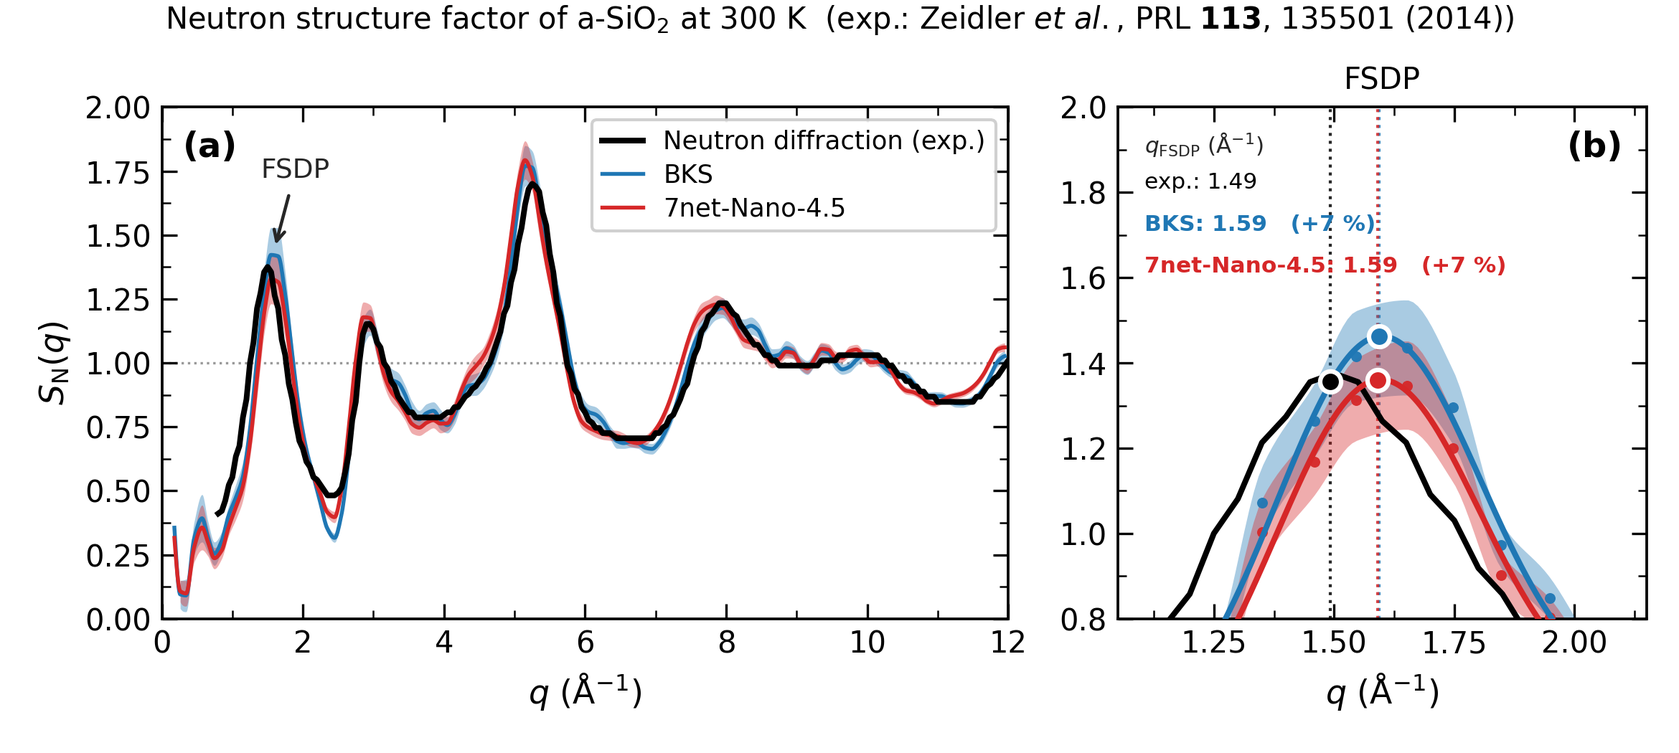
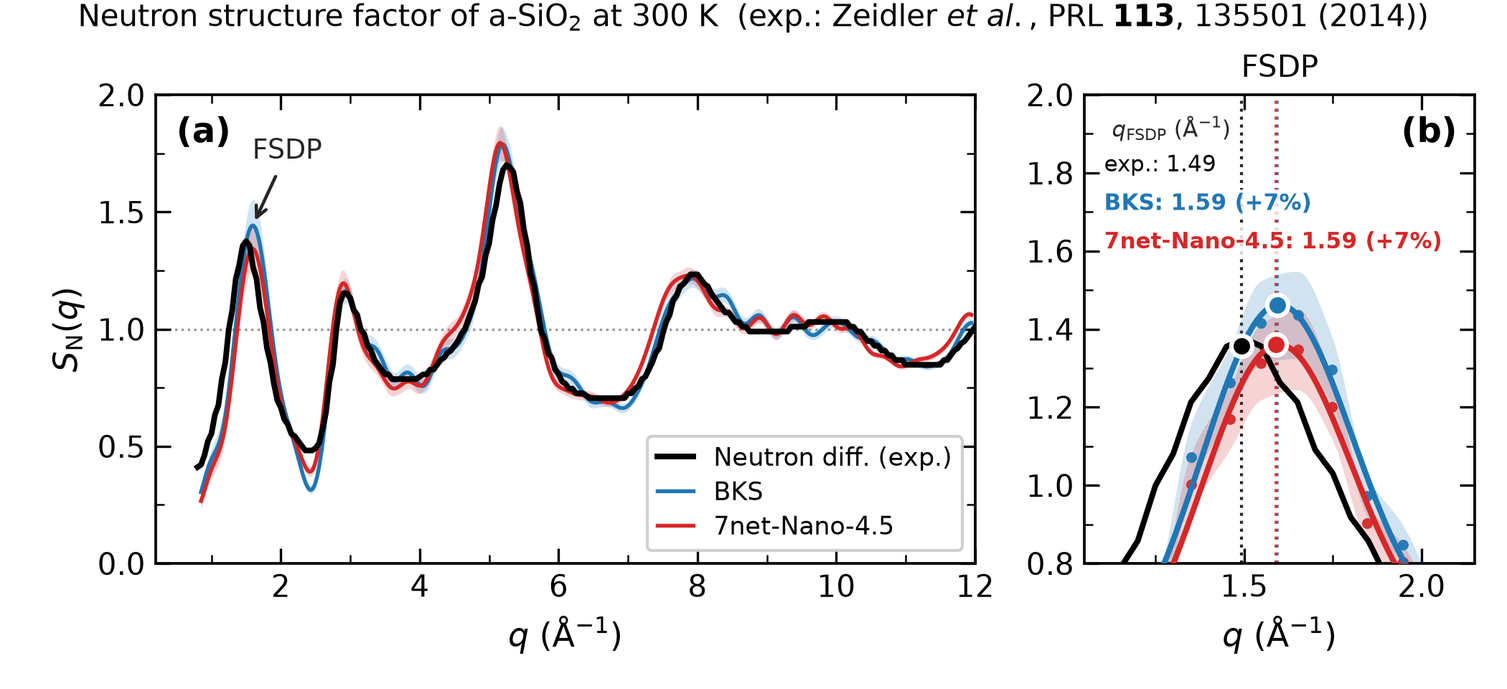
Consistency audit after the tail-on switch: found a v1 leak into RESULTS
Swept the repo for anything left stale by the tail-off -> tail-on change and by
the earlier rho=2.607 -> 2.20 restart. Five real problems.

1. fig_density.py's docstring still said "reported values are tail OFF" while
   the code reads ev_bks_scan_tail.txt. The file contradicted itself. Rewrote
   the docstring to state the tail-on grounds and to record that the original
   tail-off justification was circular.

2. RESULTS.md "lessons" section still claimed BKS is 5x more accurate on K0.
   With the tail on it is 2.7x. Fixed.

3. THE REAL FIND: RESULTS.md section 3(b) -- "the density drop is entirely
   explained by bond length, predicted -4.28 % vs measured -4.31 %, agreeing to
   0.03 %p" -- was carrying numbers from the DISCARDED rho=2.607 work
   (s2_relax/NOTE.md S2-3). There the comparison was Si-O 1.6123 -> 1.6360 with
   density 2.6071 -> 2.4948, i.e. the same structure relaxed by 7net at two
   volumes at 0 K. That is a clean apples-to-apples test and the claim was
   sound in its own context.

   The current section 3(b) is a completely different comparison: 300 K MD g(r)
   peak positions against 0 K equilibrium densities of two different potentials.
   The v1 numbers do not transfer. Recomputed honestly:

       prediction from mean Si-O (1.6147 -> 1.6369)   -4.01 %
       prediction from peak Si-O (1.605  -> 1.635 )   -5.40 %
       measured (2.3442 -> 2.2185)                    -5.36 %

   So the prediction swings 1.4 %p depending on which equally arbitrary
[…]

Changed region(s): [[0.031, 0.0, 0.9905, 0.9375], [0.7738, 0.9062, 0.8976, 0.9375]]

diff --git a/04_analysis/src/fig_sq.py b/04_analysis/src/fig_sq.py
@@ -95,7 +95,7 @@ def peak(q, s, lo=FIT_LO, hi=FIT_HI):
     return p[1], float(np.sqrt(np.diag(cov))[1]), float(gmodel(p[1], *p)), p, res
 
 
-def bandlimit(q, s, rmax=15.2, rlim=60.0, nr=6000):
+def bandlimit(q, s, qout=None, rmax=15.2, rlim=60.0, nr=6000):
     """S(q) 잡음 제거 — **박스 크기가 정하는 물리적 대역 제한**. 조정 파라미터가 없다.
 
     원리
@@ -126,23 +126,38 @@ def bandlimit(q, s, rmax=15.2, rlim=60.0, nr=6000):
         다만 매듭 30 개(간격 0.41 = 하필 박스가 정하는 한계값)면 S=1.25 로 14 % 뭉개지는데
         **방법 안에 그게 틀렸다는 신호가 없다.** 답을 이미 알아야 매듭을 고를 수 있다.
         rmax 는 박스가 정해주므로 이쪽을 쓴다.
+
+    ★ qout 을 주면 **임의의 촘촘한 격자에서 평가**한다. 이게 중요하다 —
+      대역제한 결과는 이산점이 아니라 **연속함수**다. 그래서 그림을 그릴 때 보간이
+      아예 필요 없다. PCHIP 로 이으면 단조성 보존 때문에 데이터 점을 못 넘어서
+      0.1 격자 사이에 떨어진 피크 꼭짓점이 눌린다 (7net 진폭 1.36 → 1.33).
+      그래서 (a) 와 (b) 의 피크 높이가 어긋나 보였다. 직접 평가하면 그 문제가 없다.
     """
     r = np.linspace(1e-6, rlim, nr)
     dr = r[1] - r[0]
     h = (np.sin(np.outer(r, q)) @ (q * (s - 1.0) * np.gradient(q))) / r
     h[r > rmax] = 0.0
-    return 1.0 + 2.0 / np.pi / q * (np.sin(np.outer(q, r)) @ (r * h * dr))
+    qo = q if qout is None else qout
+    return 1.0 + 2.0 / np.pi / qo * (np.sin(np.outer(qo, r)) @ (r * h * dr))
 
 
-SET = [("Neutron diffraction (exp.)", "k", exp[:, 0], exp[:, 1], None, 1.9),
-       ("BKS", "tab:blue", bks[:, 0], bks[:, 1], bks[:, 2], 1.3),
-       ("7net-Nano-4.5", "tab:red", net[:, 0], net[:, 1], net[:, 2], 1.3)]
-pk = {lab: peak(q, s) for lab, _, q, s, _, _ in SET}
-qe = pk["Neutron diffraction (exp.)"][0]
+# 저q 표시 하한 = **실험 데이터가 시작하는 q** (0.8 Å⁻¹). 비교 대상이 없는 구간은 안 그린다.
+#   마침 우리 쪽 통계 한계와도 맞는다. 박스가 30.4 Å 이라 최소 q = 2π/L = 0.207 인데
+#   q<0.5 껍질에는 q벡터가 1·8·5·26·19 개뿐이다 (q=0.8 에서 59 개, FSDP 구간은 175~393 개).
+#   그 구간의 널뛰기는 물리가 아니라 **표본 부족**이다. S(q→0) = ρk_BT·κ_T ≈ 0.09 로
+#   수렴하는 모습을 보려면 박스를 훨씬 키워야 한다.
+QMIN_PLOT = float(exp[:, 0].min())
+
+
+SET = [("Neutron diff. (exp.)", "k", exp[:, 0], exp[:, 1], None, 1.9, None),
+       ("BKS", "tab:blue", bks[:, 0], bks[:, 1], bks[:, 2], 1.3, bks[:, 3]),
+       ("7net-Nano-4.5", "tab:red", net[:, 0], net[:, 1], net[:, 2], 1.3, net[:, 3])]
+pk = {lab: peak(q, s) for lab, _, q, s, *_ in SET}
+qe = pk[SET[0][0]][0]
 QFIT = np.linspace(FIT_LO, FIT_HI, 400)
 
-fig, ax = plt.subplots(1, 2, figsize=(7.8, 3.5),
-                       gridspec_kw={"width_ratios": [1.6, 1]})
+fig, ax = plt.subplots(1, 2, figsize=(7.0, 3.2),
+                       gridspec_kw={"width_ratios": [2.1, 1]})
 a, b = ax
 
 
@@ -161,28 +176,30 @@ def draw(axis, mode="raw"):
       면역이므로, 날 데이터 점을 그대로 보여주는 편이 정직하다.
       (필터를 걸어도 q 1.593→1.590, S 1.462→1.457 로 인용 불확도 안에서 안 움직인다.)
     """
-    for lab, c, q, s, e, lw in SET:
+    for lab, c, q, s, e, lw, nq in SET:
         z = 4 if c == "k" else 3
-        sd = bandlimit(q, s) if (e is not None and mode == "raw") else s
+        if mode == "raw" and e is not None:
+            # ★ 대역제한 필터를 **촘촘한 격자에서 직접 평가**한다 — 보간이 아예 없다.
+            #   PCHIP 는 단조성 보존이라 데이터 점을 못 넘어서, 꼭짓점이 0.1 격자 사이에
+            #   떨어지면 봉우리를 누른다 (7net 1.36 → 1.33). (a)·(b) 높이가 어긋난 원인이었다.
+            #   실험이 없는 저q 는 **표시만** 자른다. 변환 입력에선 빼지 않는다 —
+            #   푸리에 변환은 전 q 정보를 쓰기 때문이다.
+            m = q >= QMIN_PLOT
+            qf = np.linspace(q[m][0], q[m][-1], 1500)
+            sf = bandlimit(q, s, qf)
+            se = PchipInterpolator(q[m], e[m])(qf)   # 밴드 폭은 그대로 — 불확도는 안 줄인다
+            axis.fill_between(qf, sf - se, sf + se, color=c, alpha=0.2, lw=0, zorder=z - 1)
+            axis.plot(qf, sf, "-", c=c, lw=lw, label=lab, zorder=z)
+            continue
         if e is not None:
-            # 밴드 = 대역제한 곡선 ± SEM. 불확도는 줄이지 않는다 — 표시만 매끄럽게 한다.
-            #   껍질 간격이 0.1 이라 직선으로 이으면 모서리가 보인다. 이건 통계 문제가
-            #   아니라 렌더링 문제이고, 데이터 점을 정확히 지나는 **보간**으로 해결된다.
-            #   PCHIP 를 쓰는 이유: 일반 3차 스플라인은 잡음 있는 점 사이에서 overshoot 이
-            #   나서 없는 봉우리를 만든다. PCHIP 는 단조성을 보존해 그 일이 없다.
             ok = np.isfinite(e) & np.isfinite(s)
             qf = np.linspace(q[ok][0], q[ok][-1], 1200)
-            lo = PchipInterpolator(q[ok], (sd - e)[ok])(qf)
-            hi = PchipInterpolator(q[ok], (sd + e)[ok])(qf)
-            axis.fill_between(qf, lo, hi, color=c, alpha=0.38, lw=0, zorder=z - 1)
+            lo = PchipInterpolator(q[ok], (s - e)[ok])(qf)
+            hi = PchipInterpolator(q[ok], (s + e)[ok])(qf)
+            axis.fill_between(qf, lo, hi, color=c, alpha=0.2, lw=0, zorder=z - 1)
         if mode == "raw" or c == "k":
-            if e is None:
-                axis.plot(q, s, "-", c=c, lw=lw, label=lab, zorder=z)
-            else:
-                ok = np.isfinite(sd)
-                qf = np.linspace(q[ok][0], q[ok][-1], 1200)
-                axis.plot(qf, PchipInterpolator(q[ok], sd[ok])(qf), "-",
-                          c=c, lw=lw, label=lab, zorder=z)
+            # 여기 오는 건 실험 곡선뿐 (이미 매끈하고 SEM 이 없다)
+            axis.plot(q, s, "-", c=c, lw=lw, label=lab, zorder=z)
         else:
             m = (q > FIT_LO - 0.15) & (q < FIT_HI + 0.15)
             # 데이터 점: 테두리 없이 면색만 (곡선과 같은 색) — 피팅 곡선을 덜 가린다
@@ -194,13 +211,13 @@ def draw(axis, mode="raw"):
 # ---------- (a) 전 구간 ----------
 draw(a, "raw")
 a.axhline(1, ls=":", lw=0.8, c="0.6", zorder=1)
-a.set_xlim(0, QMAX_PLOT); a.set_ylim(0.0, 2)
+a.set_xlim(QMIN_PLOT - 0.6, QMAX_PLOT); a.set_ylim(0.0, 2)
 a.set_xlabel(r"$q$ ($\rm\AA^{-1}$)"); a.set_ylabel(r"$S_{\rm N}(q)$")
-a.legend(loc="upper right", framealpha=0.92, fontsize=8.5,
-         handlelength=1.6, borderpad=0.4, labelspacing=0.35)
+a.legend(loc="lower right", framealpha=0.92, fontsize=8.5,
+         handlelength=1.4, borderpad=0.4, labelspacing=0.35)
 a.text(0.025, 0.955, "(a)", transform=a.transAxes, fontsize=11.5, fontweight="bold", ha='left', va='top')
 # FSDP 를 화살표로 지시
-a.annotate("FSDP", xy=(qe+0.1, 1.44), xytext=(qe+0.4, 1.7),
+a.annotate("FSDP", xy=(qe+0.1, 1.44), xytext=(qe+0.6, 1.7),
            fontsize=9, ha="center", va="bottom", color="0.15",
            arrowprops=dict(arrowstyle="->", lw=1.1, color="0.15"))
 
@@ -216,16 +233,19 @@ b.set_title("FSDP", fontsize=10)
 b.text(0.955, 0.955, "(b)", transform=b.transAxes, fontsize=11.5,
        fontweight="bold", ha="right", va="top")
 
-b.text(0.05, 0.955, r"$q_{\rm FSDP}$ ($\rm\AA^{-1}$)", transform=b.transAxes,
+b.text(0.07, 0.955, r"$q_{\rm FSDP}$ ($\rm\AA^{-1}$)", transform=b.transAxes,
        fontsize=7.5, ha="left", va="top", color="0.15")
 for j, (nm, c, lab) in enumerate([("exp.", "k", SET[0][0]),
                                   ("BKS", "tab:blue", "BKS"),
                                   ("7net-Nano-4.5", "tab:red", "7net-Nano-4.5")]):
     qp = pk[lab][0]
-    txt = f"{nm}: {qp:.2f}" + ("" if j == 0 else f"   ({100*(qp/qe-1):+.0f} %)")
+    # % 는 붙여 쓴다. SI/ISO 31-0 은 띄우라고 하지만 PRL·PRB 등 대부분의 저널 관행은 붙임.
+    txt = f"{nm}: {qp:.2f}" + ("" if j == 0 else f" ({100*(qp/qe-1):+.0f}%)")
     b.text(0.05, 0.955 - 0.082 * (j + 1), txt, transform=b.transAxes,
            fontsize=7.5, ha="left", va="top", color=c,
-           fontweight="bold" if j else "normal")
+           fontweight="bold" if j else "normal", zorder=8,
+           # 세로 점선이 글자를 가로질러 읽기 나쁘다 → 흰 배경을 깔되 테두리는 없앤다
+           bbox=dict(fc="w", ec="none", alpha=0.8, pad=1.2))
 
 for a_ in ax:
     a_.xaxis.set_minor_locator(AutoMinorLocator(2))
@@ -234,13 +254,13 @@ for a_ in ax:
 fig.suptitle("Neutron structure factor of a-SiO$_2$ at 300 K  "
              "(exp.: Zeidler $et\\ al.$, PRL $\\bf 113$, 135501 (2014))",
              fontsize=10, y=0.995)
-fig.tight_layout(rect=[0, 0, 1, 1.05])
+fig.tight_layout(rect=[0, 0, 1, 1.06])
 fig.savefig(FIG / "fig_sq.png", dpi=300)
 print(f"-> {FIG}/fig_sq.png\n")
 
 print(f"{'':28s}{'q_FSDP':>9s}{'±':>7s}{'vs exp':>9s}{'S_peak':>9s}{'vs exp':>9s}")
 se = pk[SET[0][0]][2]
-for lab, _, q, s, e, _ in SET:
+for lab, _, q, s, e, *_ in SET:
     q0, e0, s0, _, res = pk[lab]
     sem = np.nanmedian(e) if e is not None else np.nan
     extra = f"   잔차 {res:.4f} vs SEM {sem:.4f}" if e is not None else f"   잔차 {res:.4f}"

diff --git a/05_doc/PPT_BRIEF.md b/05_doc/PPT_BRIEF.md
@@ -1,0 +1,185 @@
+# PPT 제작 인수인계 — 새 세션은 이 문서부터 읽을 것
+
+작성 2026-08-14. 계산·분석·그림은 전부 끝났고 **남은 건 PPT 제작뿐**이다.
+
+## 새 세션 시작 절차
+
+1. 이 문서를 끝까지 읽는다.
+2. **`05_doc/RESULTS.md`를 읽는다.** 모든 수치의 유일한 출처다.
+3. `05_doc/STATUS.md`의 "반드시 지켜야 할 실행 규칙" 훑기 (추가 계산을 할 경우만 필요).
+4. `/korean-ppt-standards` 스킬 + `pptx` 스킬을 함께 쓴다.
+
+> ⚠ **수치를 이 문서나 기억에서 가져오지 말 것. 반드시 `RESULTS.md`에서 읽을 것.**
+> 이 프로젝트에서 실제로 폐기된 v1 계산(ρ=2.607)의 숫자가 문서에 새어 들어간 적이 있다.
+> 아래 표는 "무슨 얘기를 하는 슬라이드인가"를 잡기 위한 것이지 인용용이 아니다.
+
+---
+
+## 1. 왜 만드나 (맥락)
+
+- 2026-08-03 **코닝 전화 인터뷰**. 분자모델링 파트 리더가 **MLIP가 현재 최대 관심사**이고
+  **유리 특화 MLIP 개발을 검토 중**이라고 말했다.
+- 통화에서 사용자가 "SevenNet-Nano 테스트 프로젝트를 해볼 계획"이라고 언급했고,
+  실제로 **4일(8/10~8/13, git 기록 기준)** 만에 수행했다.
+- 이 PPT는 **그 약속을 닫는 후속 송부물**이다. 과제 제출물이 아니라 "말한 걸 했습니다"에 가깝다.
+
+**수신**: 분자모델링 파트 리더에게 **직접 송부. 윤홍 그룹장 cc 하지 않음** (사용자 결정).
+
+**톤**: 자랑이 아니라 **실무자가 실무자에게 보내는 짧은 기술 메모**. 실패와 한계를 숨기지 않는 게
+이 자료의 강점이다 (아래 §4 참고).
+
+---
+
+## 2. 합의된 구성
+
+| # | 슬라이드 | 핵심 메시지 |
+|---|---|---|
+| — | **표지** | SevenNet 로고 포함. **제목에 소요 기간을 쓰지 않는다** (사용자 지시) |
+| 1 | **구조** — g(r) · BAD · S(q) | 제일 쉬운 얘기부터. 국소 구조는 MLIP가 개선 |
+| 2 | **MLIP의 정확도 상한 = PBE** | MLIP는 학습한 DFT를 넘지 못한다 |
+| 3 | **밀도 · 탄성률** | K₀ 함정 (아래 §4-1). 복잡한 얘기는 여기서 |
+| 4 | **비용** | MLIP는 classical MD보다 **훨씬 느리다**는 걸 분명히 |
+| 5 | **파일럿의 한계 · next step** | 어닐링 미수행, 셀 크기, 실험 대비 남은 갭 |
+| 부록 | **Computational details** | 조건표 |
+
+**"실패 진단" 별도 슬라이드는 넣지 않는다** — 사용자가 사족이라고 판단. 다만 melt-quench
+실패 경험은 §5나 부록에 한 줄로 녹일 수 있다.
+
+**서술 스타일**: 한국어 **개조식**, 기술 용어는 **영어 그대로**(MLIP, FSDP, bulk modulus,
+melt-quench, ring statistics 등 억지 번역 금지).
+
+---
+
+## 3. 표기 규칙 (이미 그림에 적용돼 있음 — 슬라이드도 맞출 것)
+
+- 모델명은 **`7net-Nano-4.5`** (논문 표기). 소문자 `7net-nano-4.5`는 checkpoint 리터럴이라
+  코드/명령어 안에서만 쓴다.
+- **`%`는 붙여 쓴다** (`+7%`). SI는 띄우라고 하지만 저널 관행을 따랐고 그림도 그렇게 돼 있다.
+- 실험 물성 라벨은 **`Fused silica: ~~`** 형식으로 통일돼 있다. 사용자가 직접 맞춰놓은 것이니
+  **임의로 바꾸지 말 것** (과거에 `a-SiO₂`로 바꿨다가 지적받았다).
+- 그림은 **PNG만** 사용 (벡터 PDF는 폐기하기로 결정).
+- 로고: `SevenNet_logo.png` (repo 루트에 있음. `.webp`도 있지만 PNG를 쓸 것).
+
+---
+
+## 4. 반드시 조심할 함정 (전부 실제로 한 번씩 틀렸던 것들)
+
+### 4-1. K₀ 비교 — "BKS가 더 정확하다"고 쓰면 틀린다
+
+BKS 34.3 vs 7net 43.2 GPa는 **각자의 평형 밀도에서 읽은 값**이라 비교가 성립하지 않는다.
+실리카는 K₀′ < 0(**anomalous compression**: 조밀할수록 물러짐)이라 BKS가 6.6 % 더 조밀한
+것만으로 K₀가 실험 쪽으로 끌려 내려온다. **같은 밀도에서 보면 두 포텐셜이 3 % 이내로 겹친다.**
+그리고 실험 밀도에서는 **둘 다 +20 % 과대**다.
+
+→ 슬라이드 구성: **처음엔 MLIP가 더 틀린 것처럼 보이는 결과를 보여주고, 그 다음 함정을
+푸는 순서**로 간다 (사용자 지시). 결론은 "포텐셜 문제가 아니라 **구조 생성 프로토콜** 문제이고,
+MLIP로 바꿔도 안 고쳐진다" — 실무자에게 이게 더 쓸모 있는 메시지다.
+
+### 4-2. 속도 비교 — 표현에 주의
+
+- **MLIP가 classical MD보다 10²~10³배 느리다**는 얘기를 반드시 할 것. 유리하게만 쓰지 말 것.
+- **"문헌 통상 10²~10³배" 같은 근거 없는 문장을 쓰지 말 것.** 과거에 지어냈다가 걸렸다.
+  인용은 SevenNet 논문의 실제 teacher 대비 속도 향상값 + 우리 자체 측정만 쓴다.
+- 배수는 조건 의존이 심하다: 같은 두 포텐셜인데 **2,462배**(cutoff 5.5, ρ=2.607)와
+  **1,244배**(cutoff 4.5, ρ=2.20)가 둘 다 사실이다. **조건을 반드시 함께 적을 것.**
+- `fig_speed.png` (b)의 x축 라벨은 `number of threads / processes`.
+
+### 4-3. 밀도 숫자 혼선
+
+**ρ = 2.20 계열(현행)만 쓴다.** BKS 2.3442 / 7net 2.2185.
+**ρ = 2.607은 폐기된 v1**이다. 속도 비교 데이터 일부가 v1 조건에서 나왔으므로,
+그 수치를 쓸 때는 조건을 명시하거나 현행 값으로 통일할 것.
+
+### 4-4. melt-quench 실패의 정확한 서술
+
+**"녹지 않았다"가 아니다.** 늦게 녹았고, **녹는 순간 NPT 때문에 부피가 붕괴**(2.26 → 2.62)한 것이다.
+정확히는 "용융 중 NPT 사용"이 원인이다.
+
+### 4-5. AIMD 참조값
+
+Dechant et al., JPCC 2026 (published, PBE). **셀이 120원자 · L = 12.2 Å**로 작고
+quench가 5 ps(≈4×10¹⁴ K/s)로 우리보다 100배 빠르다.
+→ **"7net이 DFT보다 정확하다"고 쓰지 말 것.** 방어 가능한 문장은
+*"이 조건의 AIMD 참조값보다 실험에 가까웠고, 그 차이는 참조 계산의 유한크기·급냉으로 설명 가능"*.
+유한크기 한계를 슬라이드에 담을지는 사용자에게 확인할 것 (이전에 물었으나 미결).
+
+### 4-6. PBE underbinding과 어긋나 보이는 결과
+
+Si–O 결합이 늘어나는 건 PBE underbinding으로 설명되지만 K₀는 반대 방향으로 보인다 —
+이건 4-1의 밀도 혼동 때문이다. **"counter-intuitive하다!"를 전면에 내세우지 말 것.**
+비정질 망 구조를 모르는 사람처럼 보일 수 있다는 사용자 우려가 있었다.
+
+---
+
+## 5. PPT 작업 **전에** 끝내야 할 것 — 출처 조사
+
+사용자가 "PPT 구상이 끝난 후 진행"으로 미뤄둔 항목이다. **슬라이드에 실험값을 적는 이상
+출처 없이 쓸 수 없다.** 구성 확정 직후, 슬라이드 채우기 전에 처리할 것.
+
+| 값 | 현재 상태 |
+|---|---|
+| ρ_exp = 2.20 g/cm³ | 출처 미확인 |
+| K_exp = 36.7 GPa | 출처 미확인 |
+| Si–O 1.610 Å, O–O 2.630 Å, Si–Si 3.080 Å | 출처 미확인 |
+| Si–O–Si 140~150° | 출처 미확인 |
+| FSDP (위치·높이) | Zeidler PRL **113**, 135501 (2014) — **확보됨** |
+| a-SiO₂의 문헌 DFT/AIMD K₀ (최근 10년 내) | 미조사 |
+| GGA의 탄성계수 경향 (과소/과대) 검증 | 미조사 |
+
+**arXiv 전용·피인용 적은 논문은 신뢰하지 말 것.** 출판·피인용 있는 문헌을 우선한다.
+
+---
+
+## 6. 계산·분석 쪽 남은 일 (PPT와 무관, 선택)
+
+전부 **하지 않아도 PPT는 완성된다.**
+
+1. `./cleanup.sh --yes` 실행 + `./sync.sh` — **사용자가 직접** (샌드박스는 파일 삭제 불가).
+2. RESULTS §3(b) 밀도–결합길이 논증 재검토 — ρ ∝ d⁻³ 휴리스틱이 입력에 따라 −4.0~−5.4 %를
+   오간다. 추가 MD 없이 E–V 스캔 구조에서 결합길이·각도를 직접 재면 됨.
+3. (선택) excess energy — α-quartz 단일점 하나, 7net으로 1분.
+4. (선택) 7net 어닐링 — 중거리 구조를 마저 고치려면 필요. 20 ps에 11시간.
+5. **별건 플래그**: Cu 증착 프로젝트의 `CLAUDE.md` §1.2가 ρ=2.607을 10 Å cutoff 탓으로
+   잘못 진단하고 그 비물리적 구조를 기판으로 쓰고 있다. 그 프로젝트 재개 전에 수정 필요.
+
+---
+
+## 7. 사용자 작업 규칙 (계속 적용)
+
+- **계산량 큰 작업은 착수 전 예상 소요시간을 알리고 확인받을 것.**
+- **에이전트를 많이 쓰는 작업은 사전 확인.** 사용자가 직접 한두 번 클릭으로 되는 일에
+  토큰·시간을 쓰지 말 것.
+- **검증 안 된 수치를 지어내지 말 것.** 문헌값은 출처와 함께, 불확실하면 불확실하다고 명시.
+- **사용자의 가설도 데이터로 반증되면 그대로 말할 것.** 좋은 결과가 나오도록 유도하지 말 것.
+- 각 실행마다 `02_run/*/NOTE.md`에 조건·이유·결과를 한 줄씩 기록.
+- DFT/물리 개념 설명은 생략 가능. **MLIP 툴체인 쪽은 짚어줄 것.**
+- 원격 실행 명령은 **복붙 가능한 형태**로 줄 것 (사용자가 결과를 붙여넣는다).
+- 답변은 간결하게.
+- **파일 관리**: 샌드박스는 파일 삭제 불가, git 직접 실행 시 `.git/*.lock`이 남는다.
+  → **Claude는 파일을 쓰기만 하고, `./sync.sh`와 `./cleanup.sh`는 사용자가 실행한다.**
+
+---
+
+## 8. 그림 (전부 `04_analysis/fig/`, PNG 300 dpi, 재생성 가능)
+
+| 파일 | 내용 | 슬라이드 |
+|---|---|---|
+| `fig_pdf.png` | g(r) 부분 동경분포 | 1 |
+| `fig_bad.png` | 결합각 분포 | 1 |
+| `fig_sq.png` | 중성자 S(q) + FSDP 확대 | 1 |
+| `fig_density.png` | E–V / P–V, 평형 밀도 | 3 |
+| `fig_bulkmod.png` | K(ρ) — **K₀ 함정의 핵심 그림** | 3 |
+| `fig_rings.png` | ring 통계 | 5 |
+| `fig_speed.png` | 속도 · 병렬 확장성 | 4 |
+
+**사용자가 `fig_density.png`, `fig_bulkmod.png`, `fig_sq.py`의 범위·라벨 위치를 직접
+손으로 다듬어 놓았다. 요청 없이 재생성하거나 스타일을 바꾸지 말 것.**
+
+---
+
+## 9. 최근 세션(8/14)에서 한 일 — 참고
+
+`fig_sq.png` 마무리. S(q) 곡선의 잡음 제거 방법을 **박스 크기가 정하는 푸리에 대역 제한**으로
+확정했다 (평활 스플라인·SG·RCS는 전부 기각, 근거는 `fig_sq.py`의 `bandlimit()` docstring과
+RESULTS §4). **보고 수치는 바뀌지 않았다** — FSDP는 날 데이터 가우시안 피팅에서 나오고
+필터는 그리기용이다.

diff --git a/05_doc/RESULTS.md b/05_doc/RESULTS.md
@@ -342,6 +342,41 @@ Fig. 1(a) ambient 곡선을 digitize.
 가우시안과 수렴한다 → 서로 독립인 두 방법이 만나므로 가우시안 결과를 믿을 근거가 된다.
 **어느 방법이든 우리 1.59~1.62 / 실험 1.49~1.51 이라 +6~7 % 결론은 불변이다.**
 
+### 곡선을 매끄럽게 그린 방법 — 박스 크기가 정하는 대역 제한
+
+`fig_sq.png` (a)의 곡선은 잡음을 뺀 것이다. **평활 스플라인·Savitzky–Golay는 안 썼다** —
+곡률에 벌점을 매기는 방식이라 진짜 뾰족한 피크도 같이 깎이고(평활 스플라인 s=2N에서
+진폭 −14 %, SG 창 9에서 −6 %), 평활도를 고를 물리적 근거가 없다.
+
+대신 **푸리에 대역 제한**을 썼다. 박스가 L = 30.4 Å이라 minimum image로 **r > L/2 = 15.2 Å의
+상관은 원리적으로 알 수 없다.** 그런데 S(q) → h(r) 변환은 잡음을 전 r에 퍼뜨리므로 그
+너머에도 값이 생긴다. 거기 있는 건 정의상 신호가 아니다. 잘라내고 되돌리면 잡음만 빠진다.
+
+| 검사 | 결과 |
+|---|---|
+| 잡음 감소 (2차차분 RMS) | BKS 0.099 → 0.057, 7net 0.096 → 0.053 (**1.7~1.8배**) |
+| FSDP 변화 | q 1.593 → 1.590, S 1.462 → 1.457 — **인용 불확도 ±0.014 안** |
+| 원본 ±2 SEM 안에 들어오나 | 98~99 % |
+| **실험 곡선에 같은 필터를 걸면** | **q 1.494 → 1.494, S 1.348 → 1.348 — 아무 변화 없음** |
+
+마지막 줄이 이 방법의 알리바이다. **이미 매끈한 실데이터는 안 건드린다.**
+`rmax`도 조정 대상이 아니다 — 14~20 Å 전 구간에서 결과가 불변이다.
+
+시도했다 버린 것: (i) r < 1.5 Å 원자 겹침 금지 제약 — 잡음은 하나도 더 안 줄면서 진폭만
+1.19~1.53으로 흔들린다. (ii) r 창 없는 순수 왕복 — **발산한다** (적분 범위 45→800 Å에서
+RMS 0.03→7.8). 잘린 q 데이터의 h(r)은 리플이 안 죽어서, r 창은 선택이 아니라 성립 조건이다.
+(iii) restricted cubic spline 회귀 — 매듭 50~80개면 같은 답을 주지만(q 1.587~1.600),
+매듭 30개면 S=1.25로 14 % 뭉개지는데 **방법 안에 그게 틀렸다는 신호가 없다.**
+답을 이미 알아야 매듭을 고를 수 있다. `rmax`는 박스가 정해주므로 이쪽을 썼다.
+
+> **보고 숫자는 필터와 무관하다.** FSDP 값은 날 데이터에 대한 가우시안 피팅에서 나오고
+> 그건 이미 잡음에 면역이다. 대역 제한은 (a)를 어떻게 **그리느냐**의 문제였다.
+
+> ⚠ **저q는 그리지 않는다.** q < 0.8 Å⁻¹에서 곡선이 널뛰는 건 물리가 아니라 표본 부족이다.
+> 그 껍질에 q벡터가 1·8·5·26·19개뿐이다 (q=0.8에서 59개, FSDP 구간은 175~393개).
+> S(q→0) = ρk_BT·κ_T ≈ 0.09로 수렴하는 모습을 보려면 박스를 훨씬 키워야 한다.
+> 단, **자르는 건 표시 단계뿐**이고 푸리에 변환 입력에는 전 구간을 넣는다.
+
 > ⚠ **자릿수 주의.** 우리 q는 2π/L = 0.207 Å⁻¹ 간격으로만 존재한다(껍질 평균).
 > TS 포텐셜 MD 곡선은 실험과 너무 잘 맞아 **검은 곡선 밑에 깔려 digitize가 안 됐다** —
 > 억지로 뽑으면 FSDP를 놓친다. 논문 본문의 *"The simulations give a good account of

diff --git a/05_doc/README.md b/05_doc/README.md
@@ -9,6 +9,7 @@
 |---|---|
 | **`RESULTS.md`** | **결과 요약.** 밀도·탄성률, 구조(g(r)·결합각·ring), 속도, 검증표, 실패에서 배운 것 |
 | **`STATUS.md`** | 인수인계. 환경, **실행 규칙 11개**(전부 "조용히 틀리는" 함정), 비용 모델, 남은 일 |
+| **`PPT_BRIEF.md`** | **PPT 제작 인수인계 — 현재 유일한 남은 과제.** 코닝 송부 맥락, 슬라이드 구성, 표기 규칙, 반드시 피할 함정 6개, 출처 조사 목록 |
 
 ## 참고 — 여전히 유효
 
